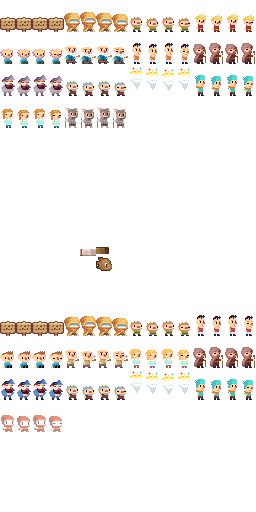
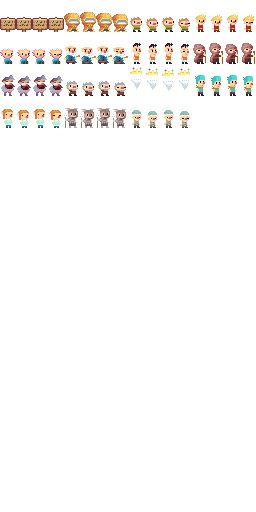
little worm

diff --git a/Leore/Objects/Effects/Ambience/LittleWorm.cs b/Leore/Objects/Effects/Ambience/LittleWorm.cs
@@ -1,0 +1,92 @@
+using System;
+using System.Collections.Generic;
+using System.Linq;
+using System.Text;
+using System.Threading.Tasks;
+using Leore.Main;
+using Microsoft.Xna.Framework;
+using SPG.Map;
+using SPG.Util;
+using SPG.Objects;
+using Leore.Objects.Level;
+
+namespace Leore.Objects.Effects.Ambience
+{
+    public class LittleWorm : RoomObject
+    {
+        private Player player => GameManager.Current.Player;
+        
+        enum State { CRAWL, IDLE }
+
+        State state;
+
+        Vector2 origPosition;
+        private Direction direction;
+        float spd;
+        int stateTimer;
+
+        public LittleWorm(float x, float y, Room room) : base(x, y, room)
+        {
+            AnimationTexture = AssetManager.LittleStuff;
+            BoundingBox = new RectF(-2, 10, 4, 6.5f);
+            Depth = Globals.LAYER_PLAYER + .0001f;
+
+            DrawOffset = new Vector2(8, 0);
+
+            //DebugEnabled = true;
+
+            origPosition = Position;
+            direction = RND.Choose(Direction.LEFT, Direction.RIGHT);
+
+            spd = GetSpd();
+        }
+
+        float GetSpd()
+        {
+            return RND.Choose(.1f, .2f, .25f);
+        }
+
+        public override void Update(GameTime gameTime)
+        {
+            base.Update(gameTime);
+
+            stateTimer = Math.Max(stateTimer - 1, 0);
+
+            if(stateTimer == 0)
+            {
+                stateTimer = RND.Choose(20, 40, 60, 80);
+                state = RND.Choose(State.IDLE, State.CRAWL);
+            }
+
+            switch (state)
+            {
+                case State.CRAWL:
+
+                    XVel = (int)direction * spd;
+
+                    if (Math.Abs(origPosition.X - X) > 6)
+                    {
+                        direction = (Direction)Math.Sign(origPosition.X - X);
+                        spd = GetSpd();
+                    }
+
+                    SetAnimation(13, 16, .5f * spd, true);
+                    
+                    break;
+                case State.IDLE:
+
+                    XVel = 0;
+                    SetAnimation(17, 17, 0, false);
+
+                    break;
+            }
+            
+            Scale = new Vector2((int)direction, 1);
+
+            Move(XVel, YVel);
+
+            if (this.IsOutsideCurrentRoom())
+                Destroy();
+        }
+    }
+}

diff --git a/Leore/Main/RoomObjectLoader.cs b/Leore/Main/RoomObjectLoader.cs
@@ -417,6 +417,9 @@ namespace Leore.Main
                             case 1025: // AMBIENCE (small bird)
                                 new LittleBirb(i * Globals.T + 8, j * Globals.T, room);
                                 break;
+                            case 1026: // AMBIENCE (small worm)
+                                new LittleWorm(i * Globals.T + 8, j * Globals.T, room);
+                                break;
                             case 1088: // Collectable
                                 new Collectable(i * Globals.T + 8, j * Globals.T + 8, room);
                                 break;
